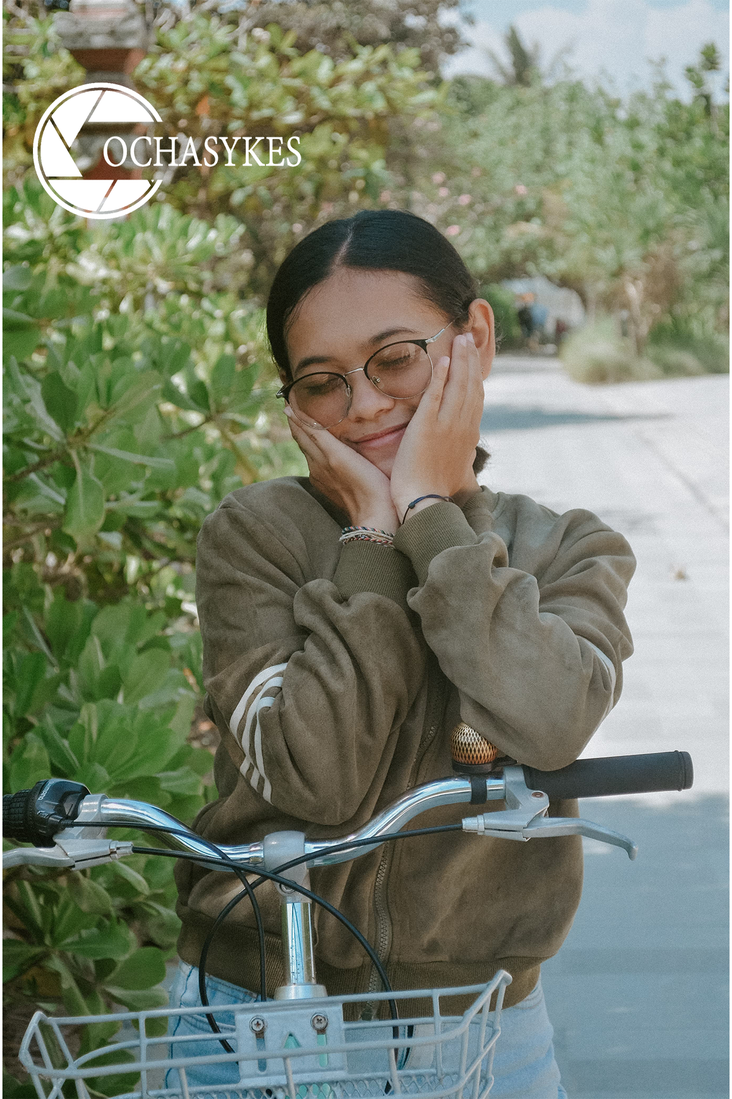
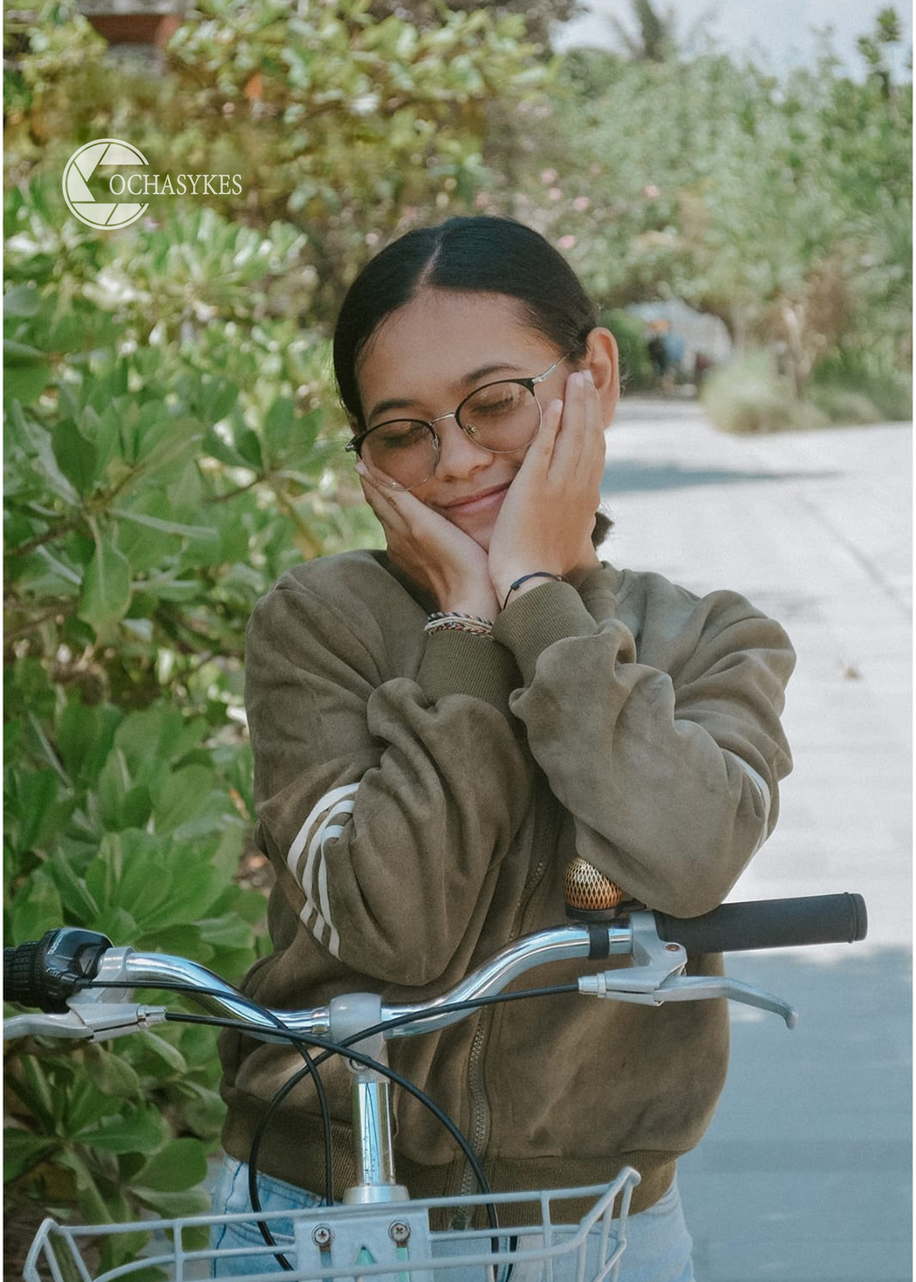
mengedit foto

diff --git a/single.html b/single.html
@@ -133,7 +133,7 @@
             <a href="#"><img src="images/foto_8.jpg" alt="IMage" class="img-fluid"></a>
           </div>
           <div class="col-sm-6 col-md-4 col-lg-3 col-xl-3 item" data-aos="fade" data-src="images/foto_9.jpg" data-sub-html="<h4>Fading Light</h4><p></p>">
-            <a href="#"><img src="images/foto_9.jpg" alt="IMage" class="img-fluid"></a>
+            <a href="#"><img src="images/foto_9.png" alt="IMage" class="img-fluid"></a>
           </div>
 
           <div class="col-sm-6 col-md-4 col-lg-3 col-xl-3 item" data-aos="fade" data-src="images/foto_10.png" data-sub-html="<h4>Fading Light</h4><p></p>">
